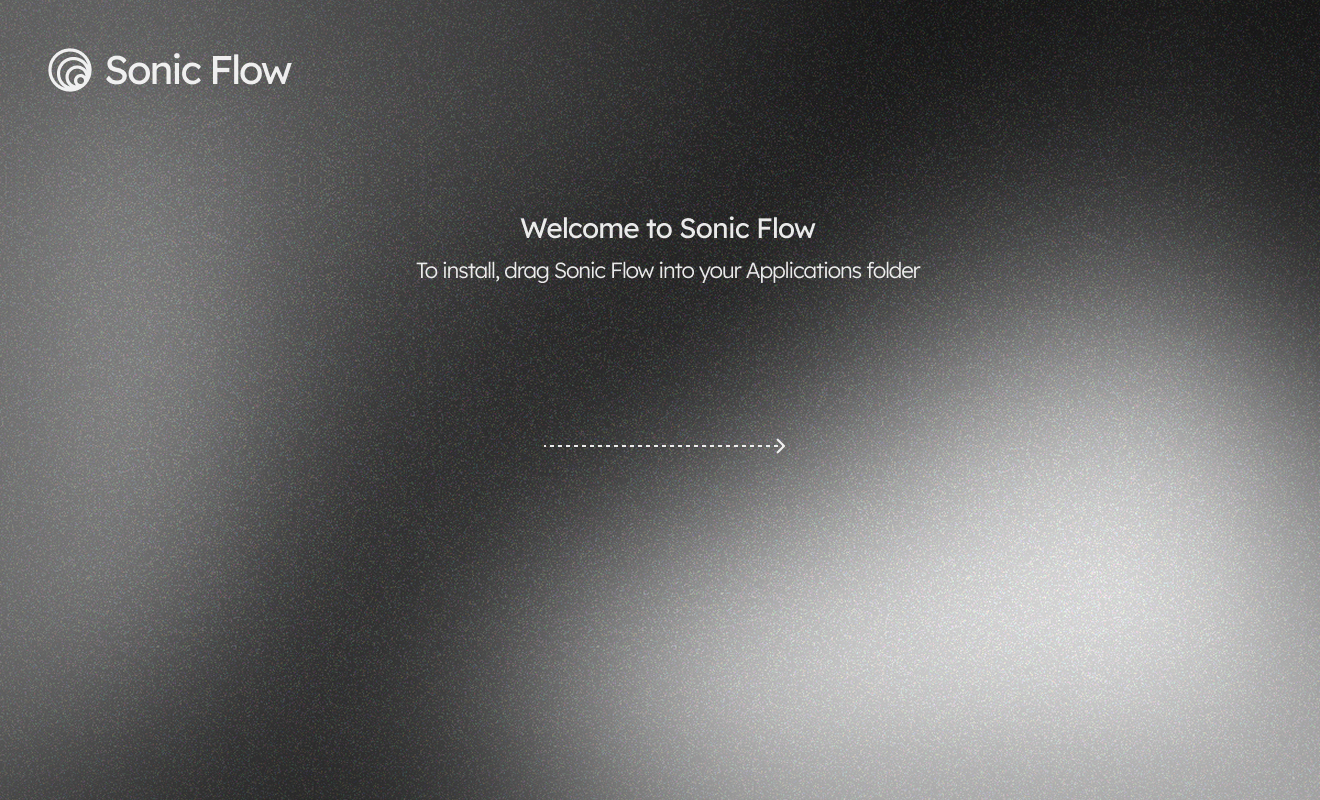
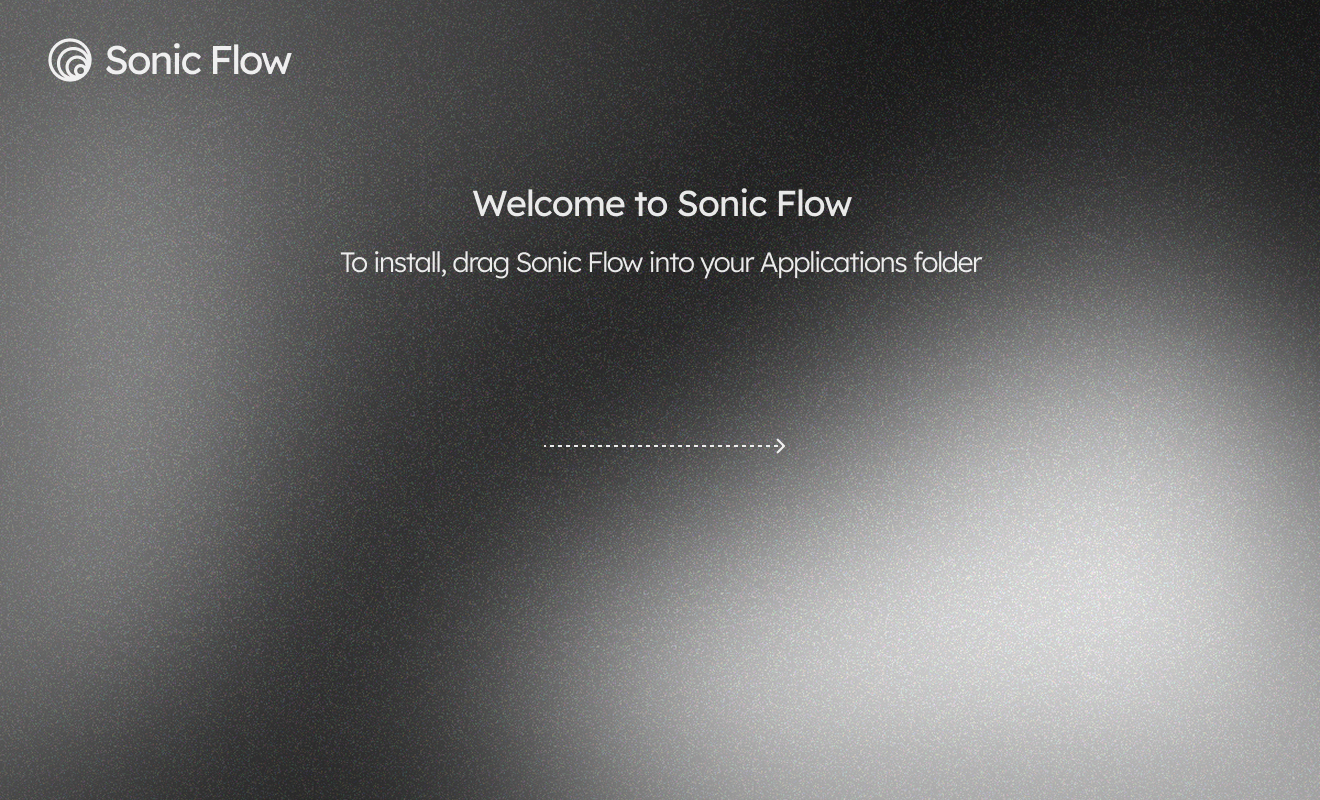
better dmg now hehe

Changed region(s): [[0.2485, 0.2188, 0.7455, 0.3438], [0.0311, 0.0312, 0.2174, 0.125]]

diff --git a/forge.config.ts b/forge.config.ts
@@ -47,26 +47,26 @@ const config: ForgeConfig = {
         // Use the existing icon for DMG
         icon: "./public/assets/icon.icns",
         background: "./public/assets/dmg-background@2x.png",
-        iconSize: 84,
+        iconSize: 95,
         additionalDMGOptions: {
           window: {
             size: {
               width: 660,
-              height: 400,
+              height: 450,
             },
           },
         },
         contents: (opts) => {
           return [
             {
-              x: 180,
-              y: 220,
+              x: 175,
+              y: 225,
               type: "file",
               path: `${opts.appPath}`,
             },
             {
-              x: 480,
-              y: 220,
+              x: 500,
+              y: 225,
               type: "link",
               path: "/Applications",
             },
